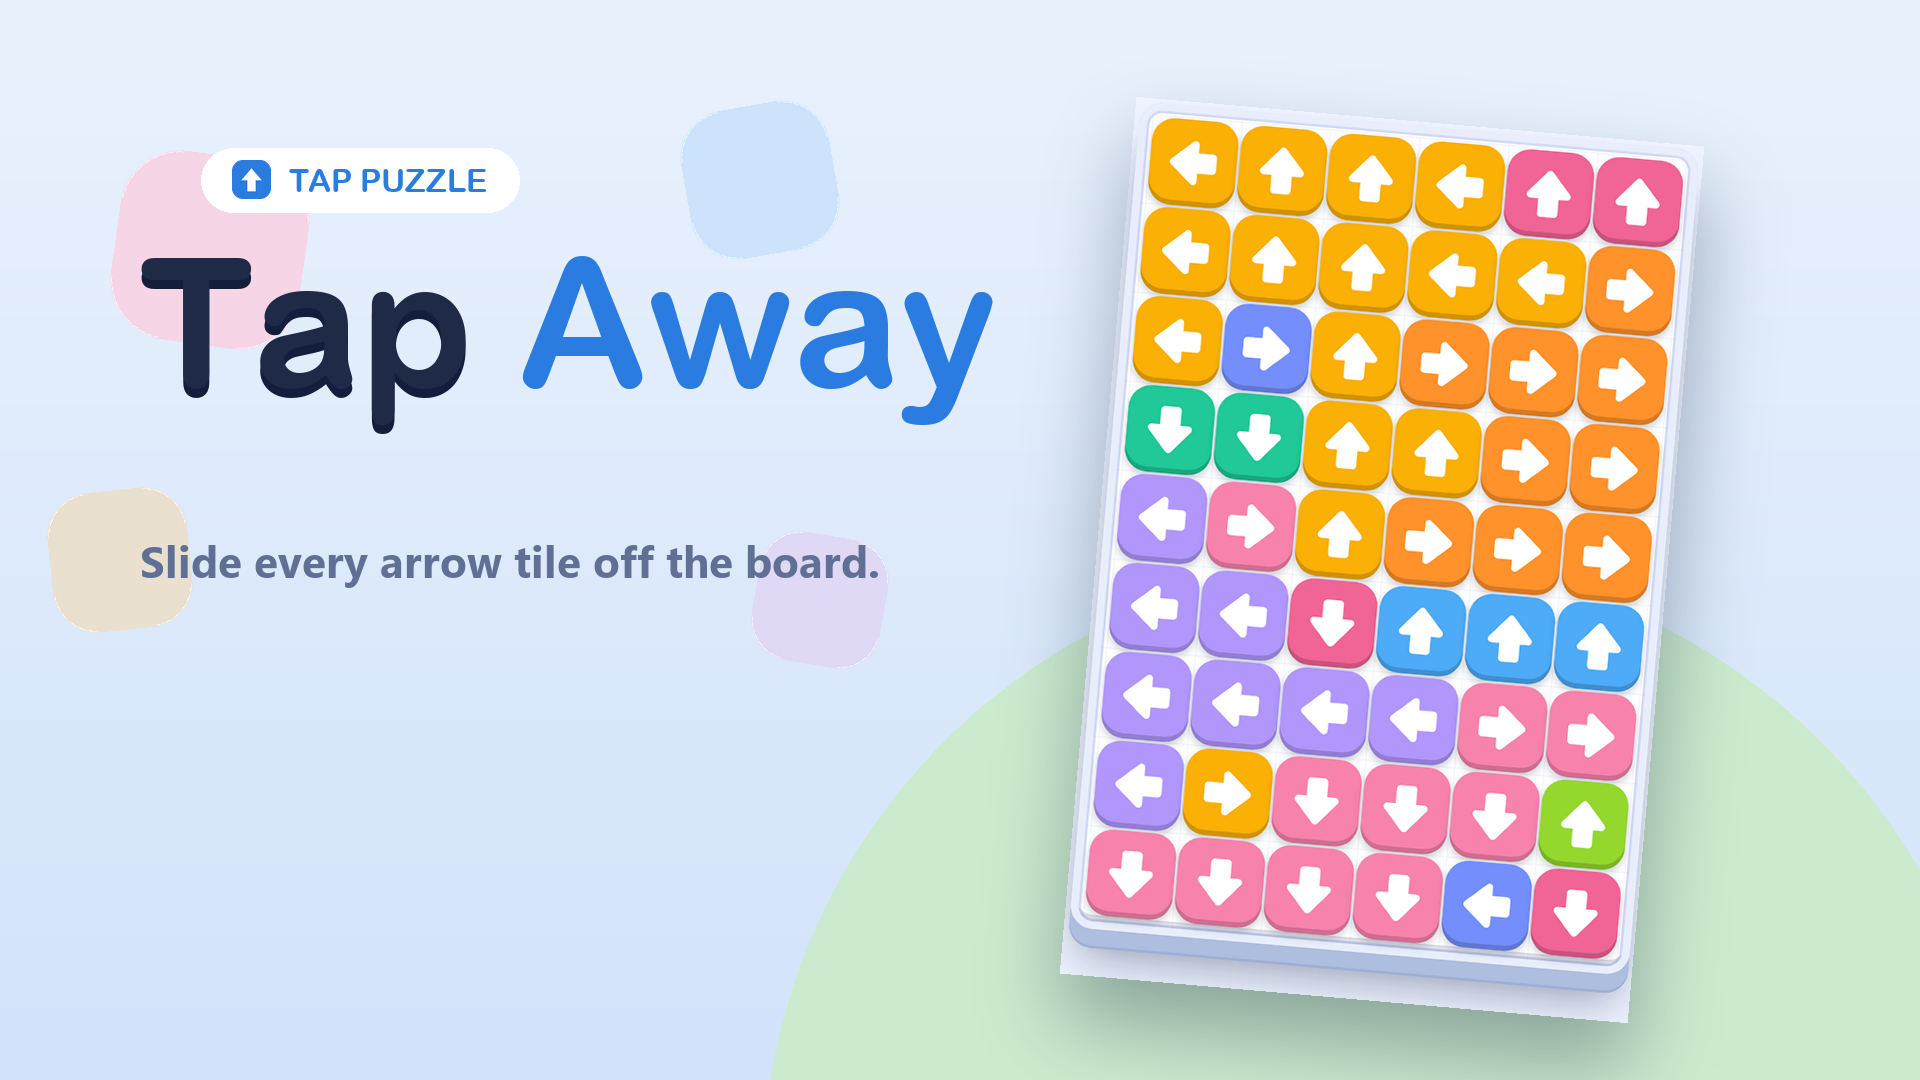
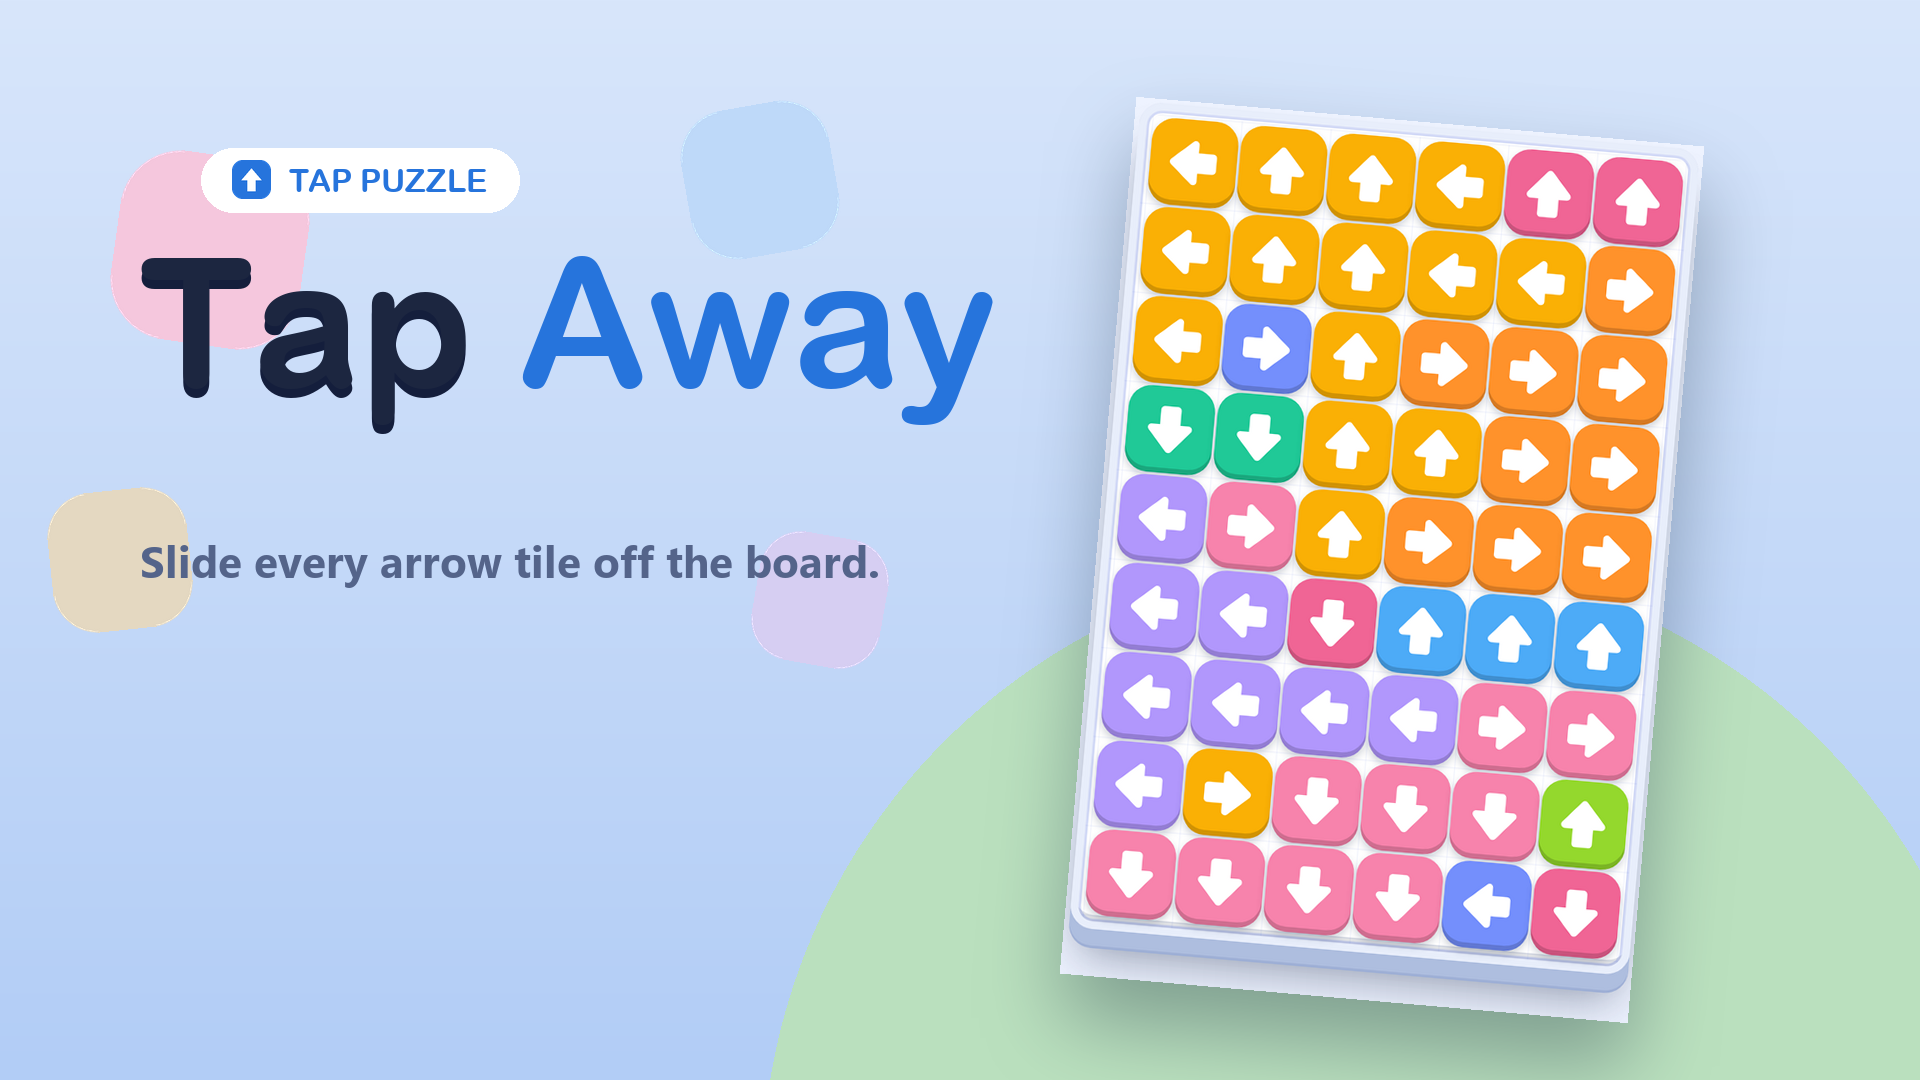
update tap away

Changed region(s): [[0.0, 0.4278, 0.5625, 1.0], [0.875, 0.4278, 1.0, 0.7944]]

diff --git a/game-HaND/tapclap/index.html b/game-HaND/tapclap/index.html
@@ -29,8 +29,8 @@
 
   :root {
     --ui-font: 'Google Sans Flex', system-ui, sans-serif;
-    --bg-1: #eef3ff;
-    --bg-2: #dfe8ff;
+    --bg-1: #ffcf94;
+    --bg-2: #93b7f2;
     --ink: #24304d;
     --ink-soft: #5b6b8f;
     --accent: #3b5bdb;
@@ -43,7 +43,12 @@
     font-family: var(--ui-font);
     font-weight: 700;
     color: var(--ink);
-    background: var(--bg-1);   /* nền màu đều (phẳng) */
+    /* nền mix cam→xanh dương ĐẬM/TƯƠI: quầng cam trên, quầng xanh dưới + chuyển gradient */
+    background:
+      radial-gradient(90% 55% at 50% -8%, rgba(255,160,70,.75) 0%, rgba(255,160,70,0) 62%),
+      radial-gradient(100% 62% at 50% 108%, rgba(80,135,235,.8) 0%, rgba(80,135,235,0) 62%),
+      linear-gradient(180deg, var(--bg-1) 0%, #dcd7e6 50%, var(--bg-2) 100%);
+    background-attachment: fixed;
     -webkit-user-select: none;
     user-select: none;
     touch-action: none;
@@ -97,27 +102,35 @@
     color: var(--accent); text-transform: uppercase;
     max-width: 100%; white-space: nowrap; overflow: hidden; text-overflow: ellipsis;
   }
-  .sc-v { font-size: 26px; color: var(--ink); max-width: 100%; white-space: nowrap; }
+  .sc-v { font-size: 26px; font-weight: 800; color: var(--ink); max-width: 100%; white-space: nowrap; }
 
-  /* ── Frame = thông tin phụ ⇒ 1 hàng riêng dưới thanh tim, nhỏ & nhạt ── */
+  /* ── Frame = thông tin phụ ⇒ 1 pill riêng dưới thanh tim, chữ canh giữa đều ── */
   .frame-row {
-    display: flex;
-    align-items: baseline;
+    display: inline-flex;                 /* pill vừa nội dung, tự canh giữa trong .app */
+    align-items: center;                  /* canh giữa theo chiều dọc ⇒ chữ đều nhau */
     justify-content: center;
-    gap: 6px;
-    padding: 2px 0 2px;
+    gap: 7px;
+    margin: 3px auto 2px;
+    padding: 3px 14px;
     color: var(--ink-soft);
+    line-height: 1;                        /* bỏ lệch do line-height mặc định */
+    background: rgba(255, 255, 255, .55);
+    border-radius: 999px;
+    box-shadow: inset 0 0 0 1px rgba(59, 91, 219, .1);
   }
-  .frame-k { font-size: 11px; letter-spacing: 1.2px; text-transform: uppercase; }
-  .frame-v { font-size: 15px; font-weight: 800; }
+  .frame-k { font-size: 11px; letter-spacing: 1.2px; text-transform: uppercase; line-height: 1; }
+  .frame-v { font-size: 14px; font-weight: 800; color: var(--accent); line-height: 1;
+    font-variant-numeric: tabular-nums; }  /* số cùng bề rộng ⇒ "1/1" không nhảy */
 
   /* ── Tim (lượt chơi) — 3 tim mỗi lần chơi ─────────────────────────── */
   .lives {
     display: flex;
+    align-items: center;
     justify-content: center;
     gap: 8px;
     width: 100%;
     max-width: 560px;
+    min-height: 32px;      /* cao ổn định dù trống/đầy ⇒ đo .stage chuẩn mọi lúc */
     padding: 2px 0 4px;
   }
   .heart { width: 26px; height: 26px; display: block; color: #ff5a72; }
@@ -172,7 +185,12 @@
     align-items: center;
     justify-content: center;
     width: 100%;
-    padding: 8px 8px 20px;
+    /* chừa safe-area đáy (thanh home iPhone) + lề 2 bên theo notch ngang (landscape) */
+    padding:
+      8px
+      calc(8px + env(safe-area-inset-right))
+      calc(20px + env(safe-area-inset-bottom))
+      calc(8px + env(safe-area-inset-left));
     overflow: visible;   /* KHÔNG cắt ">>>" gợi ý ở ô sát mép khay */
   }
   .deck {
@@ -295,11 +313,13 @@
   }
 
   .tile.slide {
-    transition: transform .32s cubic-bezier(.4, 0, .7, .2), opacity .32s ease;
-    opacity: 0;
+    transition: transform .34s cubic-bezier(.45, 0, .85, .6);
     z-index: 4;
     pointer-events: none;
   }
+  /* Cả VIÊN đổi xanh lá KHI được gỡ và bay ra (lúc trượt); mũi tên giữ trắng.
+     background của .tile-face do JS gán inline ⇒ dùng !important để phủ lúc slide. */
+  .tile.slide .tile-face { background: #37b24d !important; }
   .tile.blocked .tile-face { animation: shake .32s ease; }
   @keyframes shake {
     0%, 100% { transform: translate(0, 0); }
@@ -336,7 +356,7 @@
     height: auto;
     display: block;
     opacity: .15;
-    animation: chevWave 1.05s ease-in-out infinite;
+    animation: chevWave .6s ease-in-out infinite;
     filter: drop-shadow(0 1px 2px rgba(255, 255, 255, .7));   /* quầng sáng ⇒ mực đậm nổi rõ mọi nền */
   }
   .cv2 { animation-delay: .17s; }
@@ -541,9 +561,10 @@ function getInitialLevelIdx() {
 const DR = [-1, 0, 1, 0];
 const DC = [0, 1, 0, -1];
 const DIRS = [0, 1, 2, 3];
+// KHÔNG dùng xanh lá làm màu có sẵn (xanh lá dành riêng cho viên lúc bay ra).
 const PALETTE = [
-  '#ff6b6b', '#4dabf7', '#51cf66', '#fab005', '#b197fc', '#ff922b',
-  '#22b8cf', '#f783ac', '#748ffc', '#20c997', '#f06595', '#94d82d',
+  '#ff6b6b', '#4dabf7', '#5c7cfa', '#fab005', '#b197fc', '#ff922b',
+  '#22b8cf', '#f783ac', '#748ffc', '#e64980', '#f06595', '#ffa94d',
 ];
 const ARROW = '<path d="M50 20 L78 52 L60 52 L60 80 L40 80 L40 52 L22 52 Z" ' +
   'stroke="#ffffff" stroke-width="11" stroke-linejoin="round" stroke-linecap="round"/>';
@@ -771,9 +792,10 @@ function tapCell(r, c) {
   trayEl.appendChild(rv);
   setTimeout(() => rv.remove(), 480);
 
-  // trượt ra khỏi khay theo hướng mũi tên — chỉ cần ra khỏi mép + 2 ô rồi mờ dần
-  // (stage không còn cắt overflow ⇒ giữ quãng trượt ngắn để ô không bay ngang màn hình)
-  const dist = (distEdge(r, c, tile.dir) + 2) * CELL;
+  // trượt HẲN ra khỏi màn hình theo hướng mũi tên (không mờ dần):
+  // quãng = số ô tới mép khay + trọn kích thước viewport ⇒ chắc chắn bay khuất.
+  const dist = (distEdge(r, c, tile.dir) + 1) * CELL +
+    Math.max(window.innerWidth, window.innerHeight);
   const el = tile.el;
   el.classList.add('slide');
   requestAnimationFrame(() => {
@@ -885,19 +907,26 @@ trayEl.addEventListener('click', (e) => {
  * 8. Sizing — khay vừa vùng sân khấu, ô vuông, canh giữa
  * ===================================================================== */
 function computeSizing() {
-  const maxW = Math.min(window.innerWidth, 560);
-  // đo tới đáy hàng Frame (nằm dưới topbar + thanh tim) ⇒ trừ đủ toàn bộ phần HUD
-  const usedTop = document.querySelector('.frame-row').getBoundingClientRect().bottom;
-  viewW = maxW - 20;
-  viewH = Math.max(240, window.innerHeight - usedTop - 30);
-  // Chừa gutter cho ">>>" gợi ý ló ra ngoài ô sát mép (~0.7 ô mỗi phía) ⇒ bàn nhỏ lại
-  // để chevron luôn nằm trong màn hình (2 bên) và không chui lên topbar (phía trên).
+  // Đo TRỰC TIẾP ô nội dung của .stage (đã trừ HUD phía trên + padding safe-area).
+  // Cách này tự khớp mọi thiết bị: notch/home-indicator, thanh công cụ trình duyệt
+  // co dãn, xoay ngang/dọc… mà không cần cộng trừ thủ công theo innerHeight.
+  const stage = document.querySelector('.stage');
+  const cs = getComputedStyle(stage);
+  const rect = stage.getBoundingClientRect();
+  const padX = parseFloat(cs.paddingLeft) + parseFloat(cs.paddingRight);
+  const padY = parseFloat(cs.paddingTop) + parseFloat(cs.paddingBottom);
+
+  // Bề rộng bàn cap 560px (tablet/desktop) để ô không quá to; chiều cao lấy hết khả dụng.
+  viewW = Math.min(rect.width, 560) - padX;
+  viewH = Math.max(200, rect.height - padY);
+
+  // Chừa gutter cho ">>>" gợi ý ló ra ngoài ô sát mép (~0.7 ô mỗi phía).
   const CHEV = 0.7;
-  // chừa chỗ dưới cho các "khay chờ" + gờ 3D ló ra (~78px) và lề trong PAD ở 4 cạnh
+  // Chừa chỗ dưới cho các "khay chờ" + gờ 3D ló ra (~78px) và lề trong PAD ở 4 cạnh.
   CELL = Math.floor(Math.min(
     (viewW - 2 * PAD) / (COLS + 2 * CHEV),
     (viewH - 78 - 2 * PAD) / (ROWS + CHEV)));
-  CELL = Math.max(34, CELL);
+  CELL = Math.max(28, CELL);   // sàn nhỏ hơn ⇒ map lớn vẫn vừa máy nhỏ, ít tràn
   document.documentElement.style.setProperty('--cell', CELL + 'px');
   document.documentElement.style.setProperty('--pad', PAD + 'px');
   deckEl.style.width = (COLS * CELL + 2 * PAD) + 'px';    // khay = lưới ô + lề khung 2 bên
@@ -978,7 +1007,19 @@ function boot() {
   loadLevel(getInitialLevelIdx());   // vào đúng màn native truyền (mặc định màn 1); loadLevel tự nạp 3 tim
 }
 
-window.addEventListener('resize', () => { relayout(); });
+// Gộp mọi tín hiệu đổi cỡ vào 1 lần relayout/khung hình ⇒ tránh layout thrashing.
+let _relayoutRaf = 0;
+function scheduleRelayout() {
+  if (_relayoutRaf) return;
+  _relayoutRaf = requestAnimationFrame(() => { _relayoutRaf = 0; relayout(); });
+}
+window.addEventListener('resize', scheduleRelayout);
+window.addEventListener('orientationchange', scheduleRelayout);
+// visualViewport: bắt cả lúc thanh công cụ trình duyệt mobile co/dãn (innerHeight đổi mượt)
+if (window.visualViewport) {
+  window.visualViewport.addEventListener('resize', scheduleRelayout);
+  window.visualViewport.addEventListener('scroll', scheduleRelayout);
+}
 
 // Đợi native inject (chống race) — game-common §3
 (function waitForNativeInjection() {